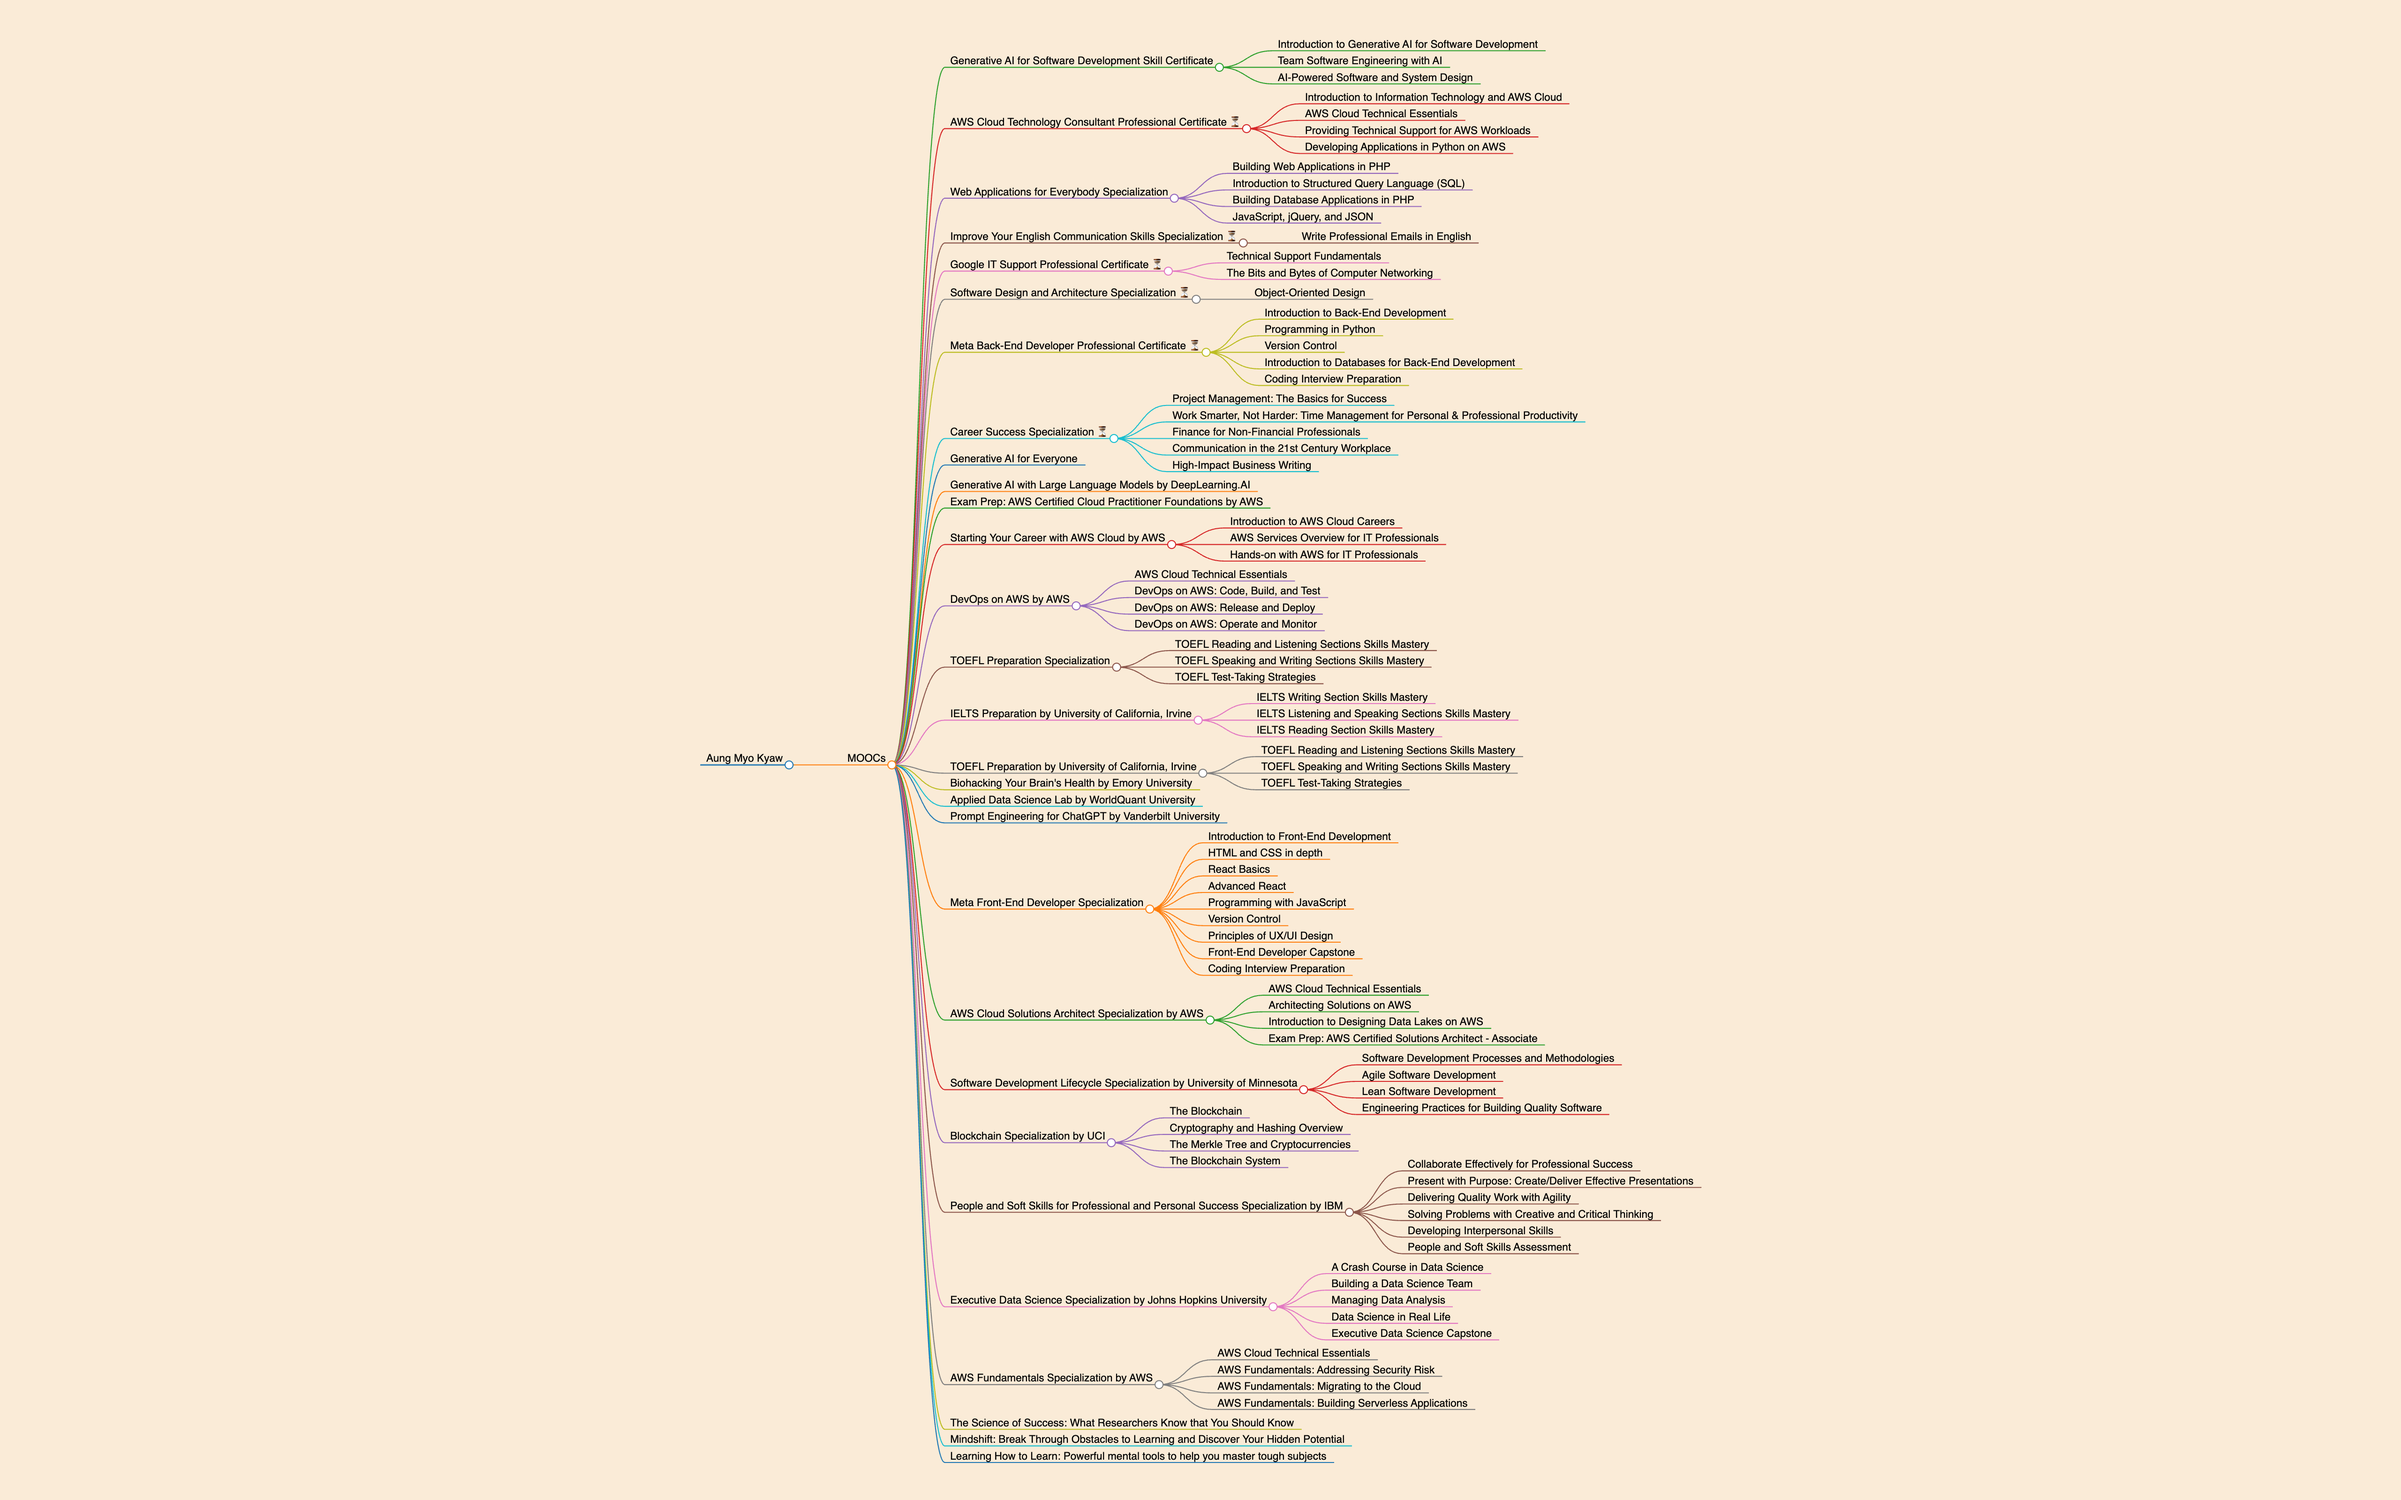
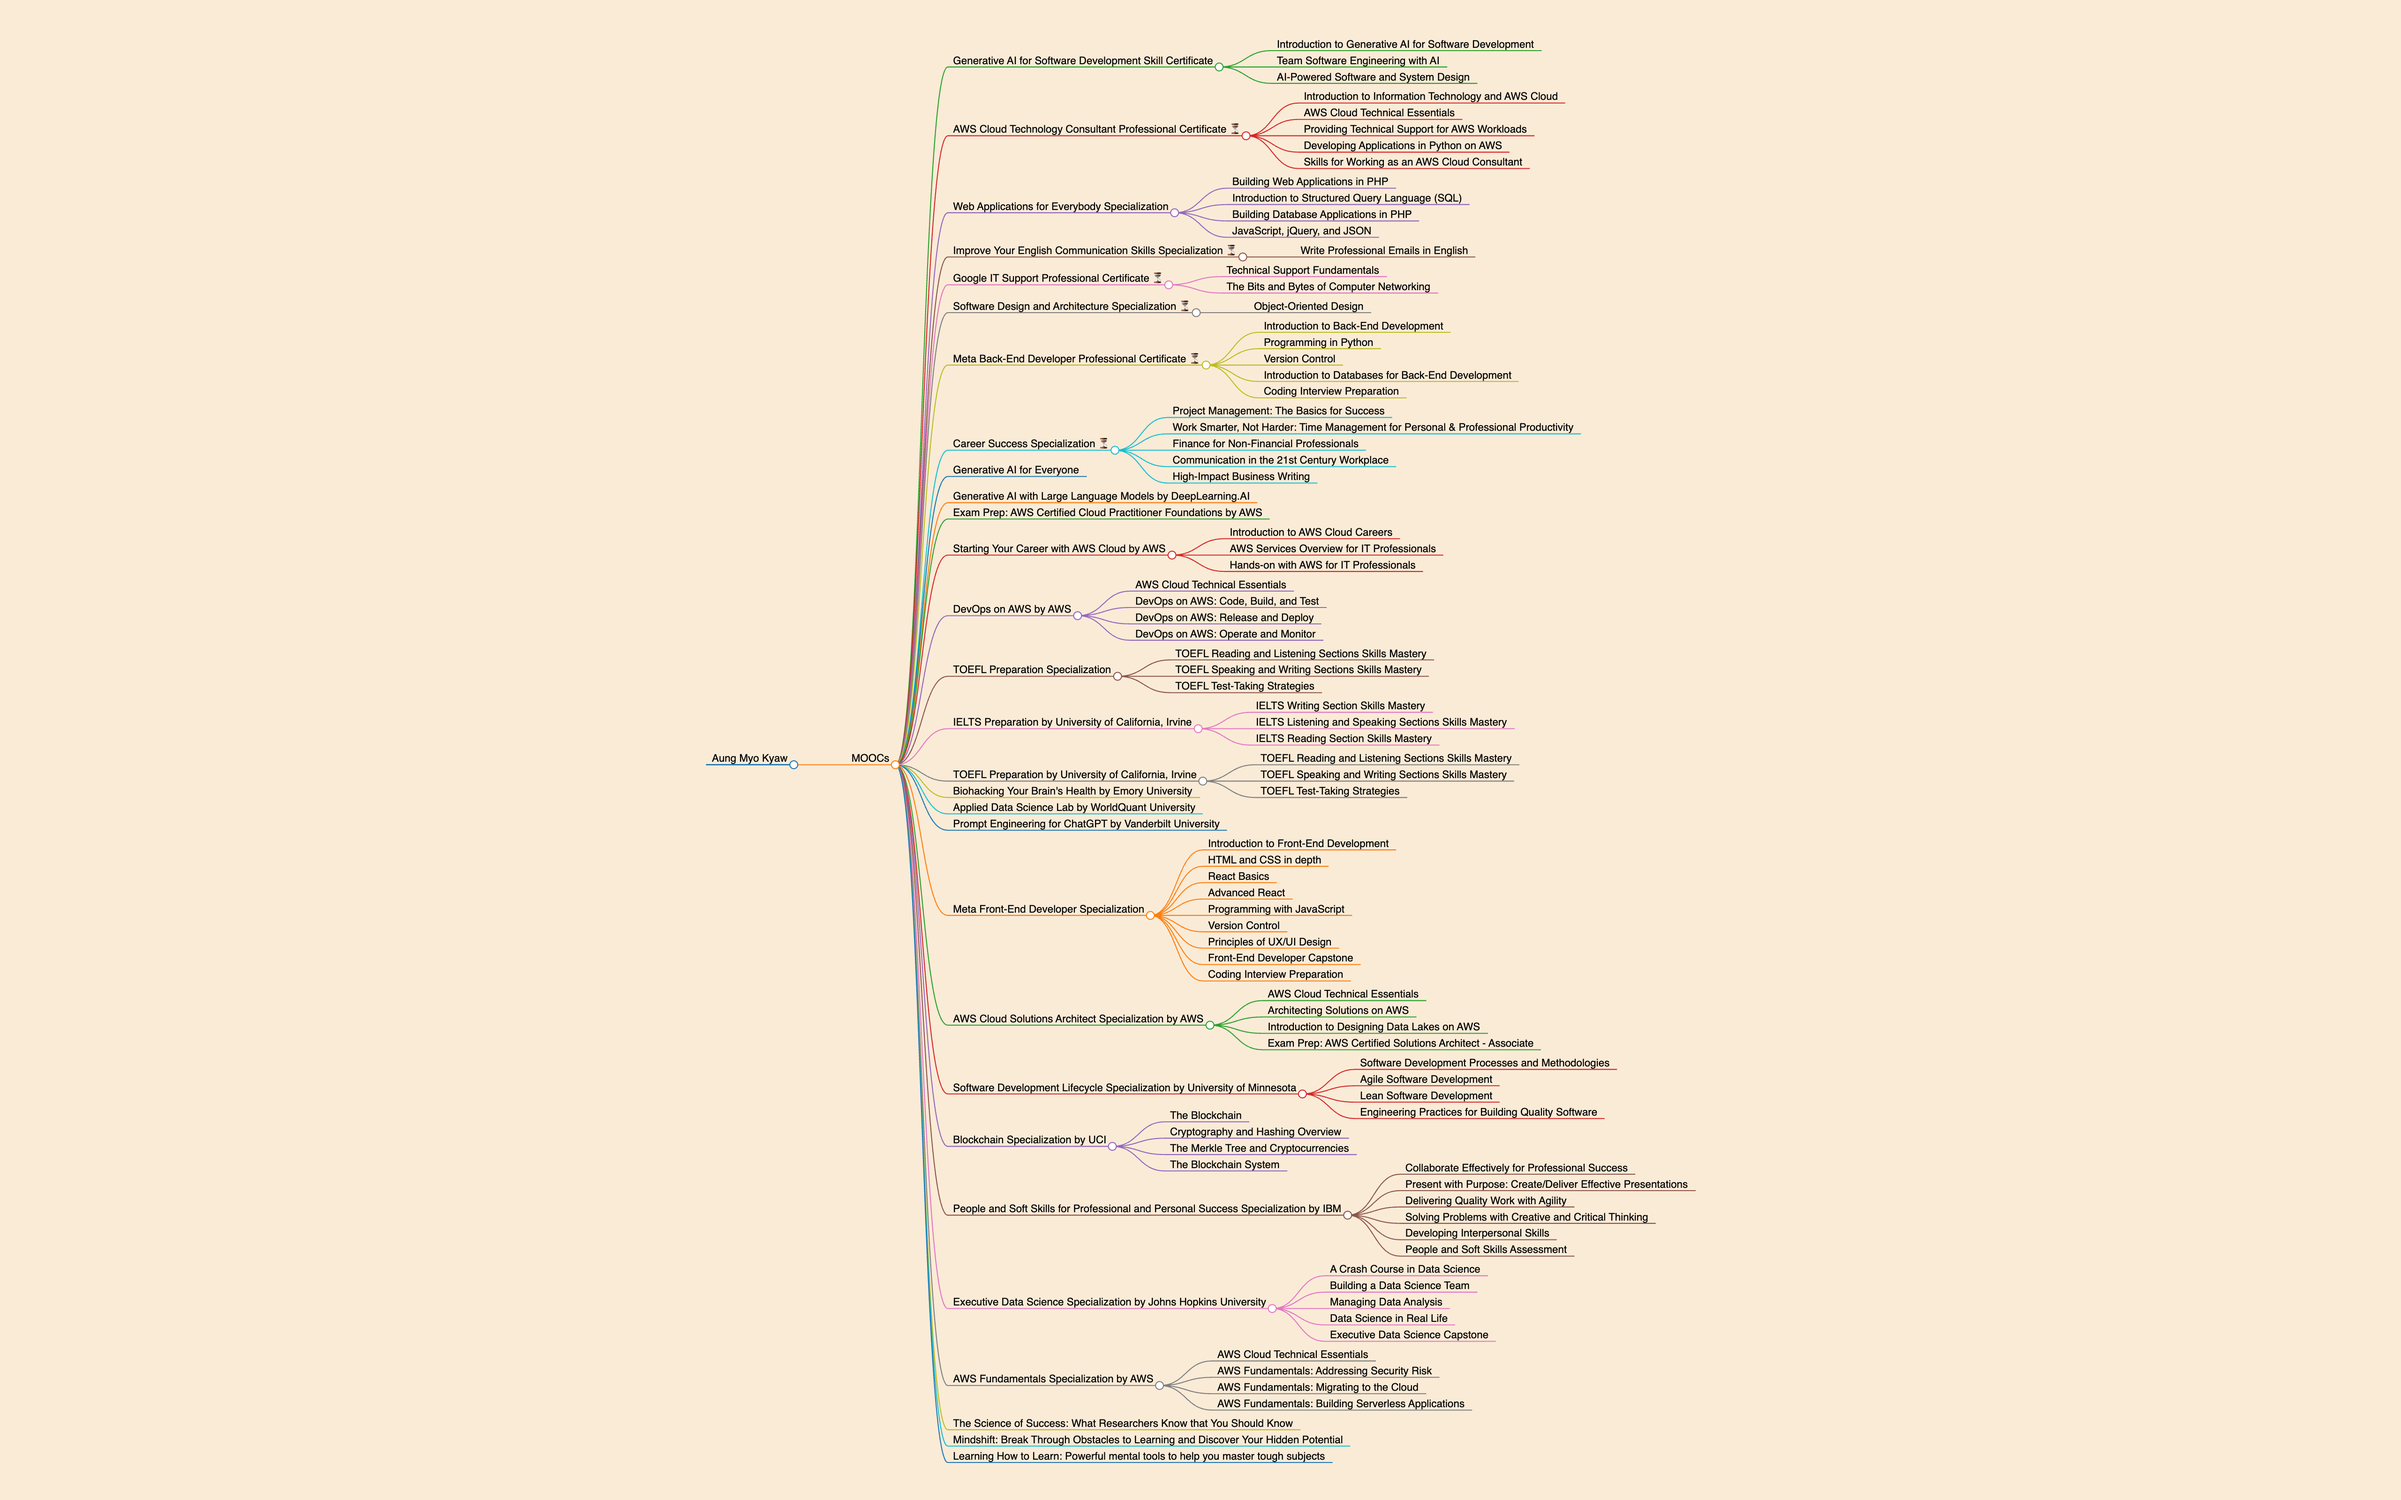
feat: update

Changed region(s): [[0.3125, 0.0312, 0.6875, 0.9688]]

diff --git a/README.md b/README.md
@@ -35,6 +35,7 @@ markmap:
 - [AWS Cloud Technical Essentials](https://www.coursera.org/account/accomplishments/certificate/68M99ZNUD4WE)
 - [Providing Technical Support for AWS Workloads](https://www.coursera.org/account/accomplishments/certificate/27NM6MWC2IQ2)
 - [Developing Applications in Python on AWS](https://www.coursera.org/account/accomplishments/certificate/0BK96THRUU05)
+- [Skills for Working as an AWS Cloud Consultant](https://www.coursera.org/account/accomplishments/certificate/QJ46WQ4D80BP)
 
 ### [Web Applications for Everybody Specialization](https://www.coursera.org/account/accomplishments/specialization/certificate/RHZNGIL8I4FA)
 
